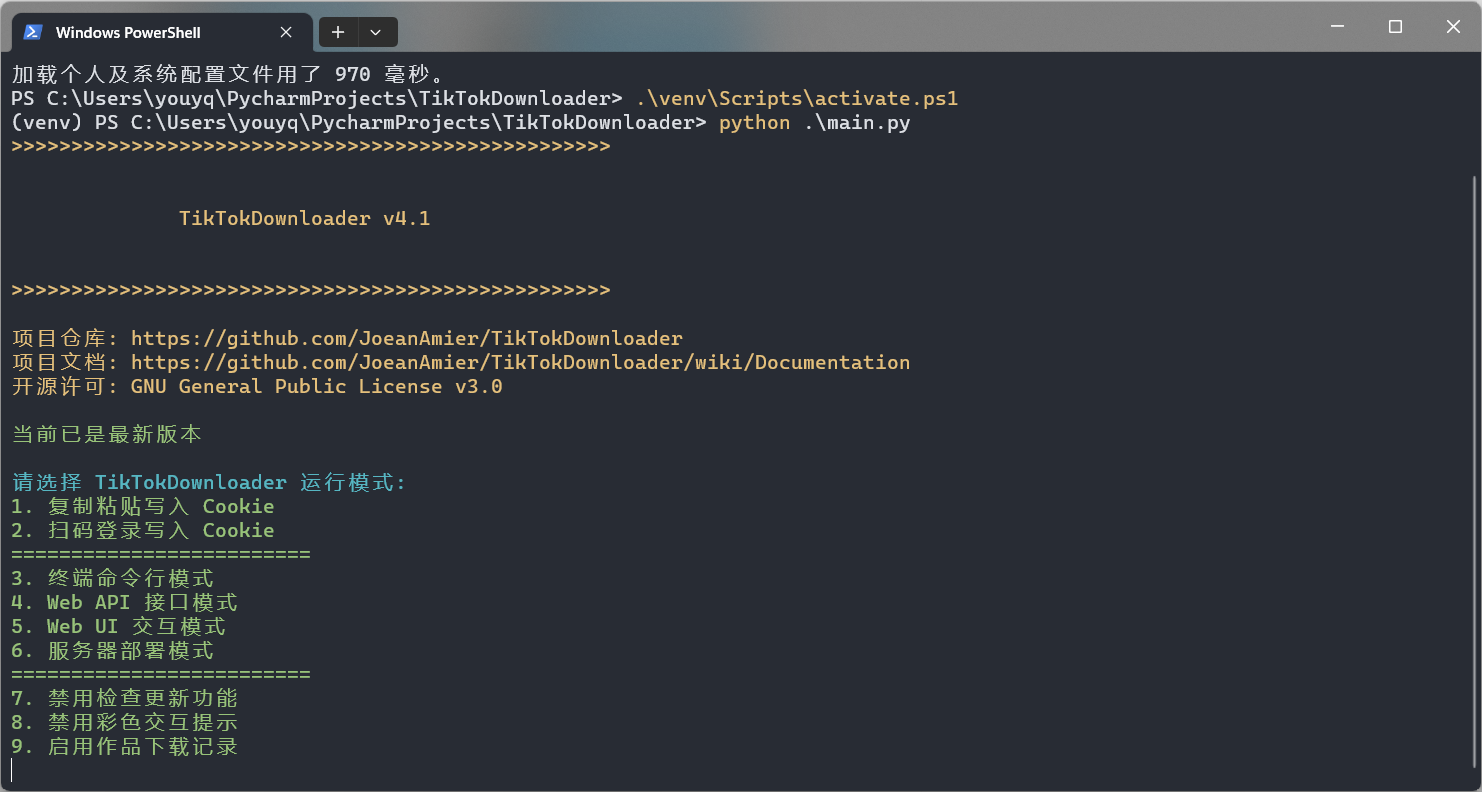
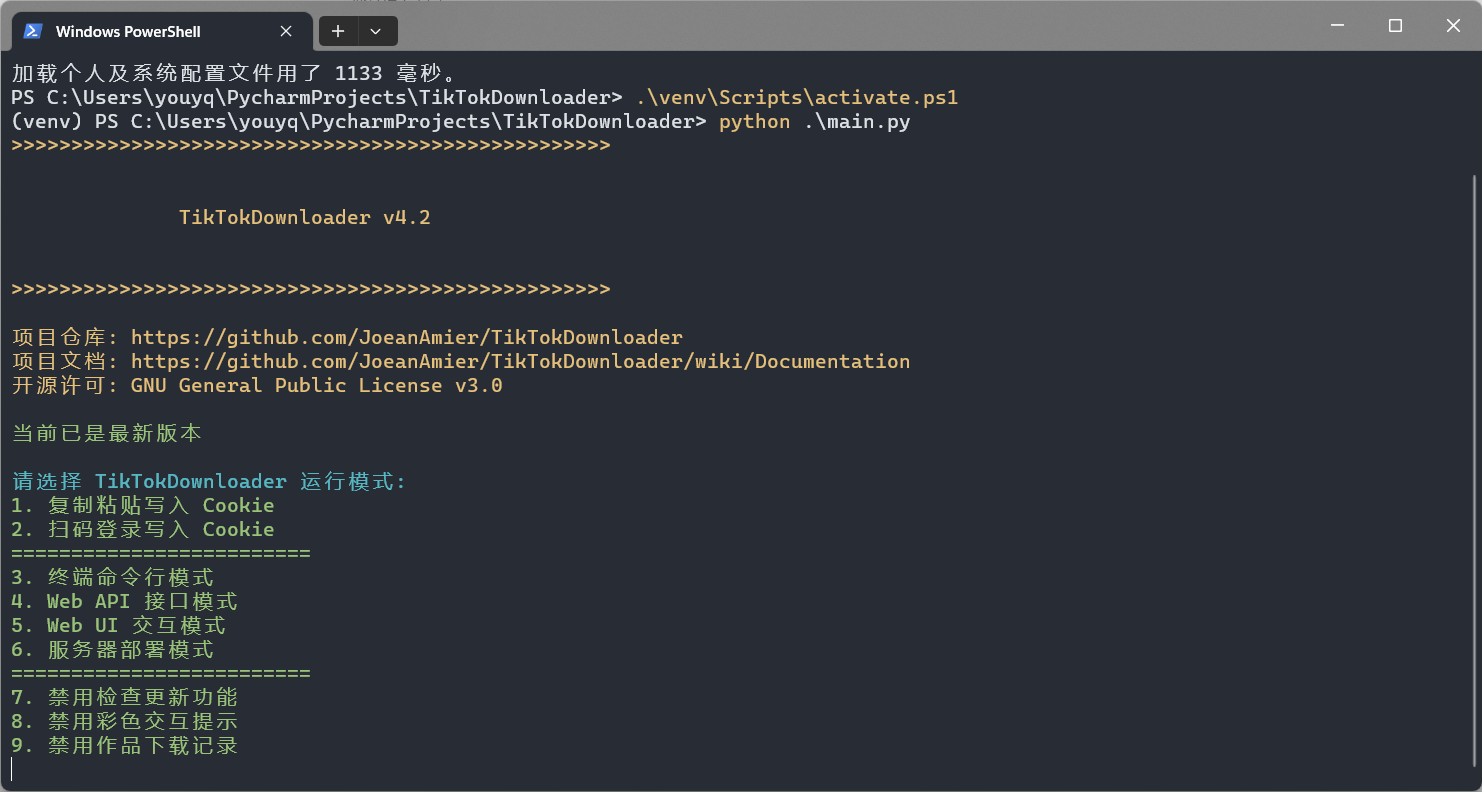
发布 4.2 版本

diff --git a/main.py b/main.py
@@ -23,7 +23,7 @@ from src.main_web_UI import WebUI
 
 class TikTokDownloader:
     VERSION = 4.2
-    STABLE = False
+    STABLE = True
 
     REPOSITORY = "https://github.com/JoeanAmier/TikTokDownloader"
     LICENCE = "GNU General Public License v3.0"

diff --git a/README.md b/README.md
@@ -15,10 +15,10 @@
 </div>
 <br>
 <p>🔥 <b>TikTok 视频/图集/原声；抖音主页/视频/图集/收藏/直播/原声/合集/评论/账号/搜索/热榜数据采集工具：</b>完全开源，基于 Requests 模块实现；批量下载抖音账号发布、喜欢、收藏的作品；单独下载抖音链接或 TikTok 链接对应的作品；获取抖音直播推流地址；下载抖音直播视频；采集抖音作品评论数据；批量下载抖音合集作品；采集抖音账号详细数据；采集抖音用户 / 作品搜索结果；采集抖音热榜数据。</p>
-<p>⭐ Windows 用户可前往 <a href="https://github.com/JoeanAmier/TikTokDownloader/releases/latest">Releases</a> 下载已编译的 exe 程序，开箱即用！</p>
+<p>⭐ Windows 10 及以上用户可前往 <a href="https://github.com/JoeanAmier/TikTokDownloader/releases/latest">Releases</a> 下载已编译的 exe 程序，开箱即用！</p>
 <hr>
 
-# 📝 功能清单
+# 📝 功能清单\(Function\)
 
 * ✅ 下载抖音无水印视频/图集
 * ✅ 下载 TikTok 无水印视频/图集
@@ -51,7 +51,7 @@
 * ✅ 支持多线程下载作品
 * ✅ 文件完整性处理机制
 
-# 💻 程序界面
+# 💻 程序界面\(Screenshot\)
 
 **终端命令行模式：**
 <br><br>
@@ -69,7 +69,7 @@
 <br><br>
 ![WebAPI模式截图](docs/WebAPI模式截图.png)
 
-# 📈 项目状态
+# 📈 项目状态\(Status\)
 
 * 🟢 [Releases](https://github.com/JoeanAmier/TikTokDownloader/releases/latest) 发布的源码已完成测试，所有功能均可正常使用
 * 🟢 正在重构项目代码，提高代码复用性和可维护性
@@ -87,11 +87,8 @@
 * 🔴 如果在使用过程中发现 Bug，请及时告知作者修复
 * 🔴 开启多线程时，作品未下载成功也会记录作品 ID，未修复，关闭多线程可临时解决问题
 * 🔴 账号昵称不是有效的文件夹名称时会导致程序报错，未修复，设置 `mark` 参数可临时解决问题
-* 🔴 Windows 系统使用 Excel 打开 CSV 数据文件会显示乱码，已修复，未发布 Releases
-* 🔴 `Web API 接口模式` 通过 API 设置 Cookie 会报错，已修复，未发布 Releases
-* 🔴 作品描述内容过多时会导致描述内容采集不完整，已修复，未发布 Releases
 
-# 📁 项目结构
+# 📁 项目结构\(Structure\)
 
 ```text
 TikTokDownloader
@@ -121,7 +118,7 @@ TikTokDownloader
 └─ docs                                    // 项目文档文件夹
 ```
 
-# 📋 项目说明
+# 📋 项目说明\(Instructions\)
 
 **快速入门：**
 
@@ -189,9 +186,10 @@ TikTokDownloader
 <li>程序下载文件时会先将文件下载至临时文件夹，下载完成后再移动至储存文件夹；程序运行结束时会清空临时文件夹</li>
 <li>如果想要自定义程序功能，可以直接修改 <code>src/Customizer.py</code> 文件内容，已整理程序功能修改指引</li>
 <li><code>批量下载收藏作品模式</code> 目前仅支持下载当前已登录 Cookie 对应账号的收藏作品，暂不支持多账号</li>
+<li>如果想要程序使用代理，必须在 <code>settings.json</code> 设置 <code>proxies</code> 参数，否则程序不会使用代理</li>
 </ul>
 
-# ⚠ 免责声明
+# ⚠ 免责声明\(Disclaimers\)
 
 <ul>
 <li>使用者对本项目的使用由使用者自行决定，并自行承担风险。作者对使用者使用本项目所产生的任何损失、责任、或风险概不负责。</li>
@@ -208,7 +206,7 @@ TikTokDownloader
 </ul>
 <b>在使用本项目的代码和功能之前，请您认真考虑并接受以上免责声明。如果您对上述声明有任何疑问或不同意，请不要使用本项目的代码和功能。如果您使用了本项目的代码和功能，则视为您已完全理解并接受上述免责声明，并自愿承担使用本项目的一切风险和后果。</b>
 
-# ♥ 赞助项目
+# ♥ 支持项目\(Support\)
 
 <table>
 <thead>
@@ -224,7 +222,7 @@ TikTokDownloader
 </tbody>
 </table>
 
-# ✉ 联系作者
+# ✉ 联系作者\(Contact\)
 
 <ul>
 <li>QQ Group: <a href="https://github.com/JoeanAmier/TikTokDownloader/blob/master/docs/QQ%E7%BE%A4%E8%81%8A%E4%BA%8C%E7%BB%B4%E7%A0%81.png">830227445</a></li>
@@ -237,7 +235,7 @@ TikTokDownloader
 <b>如果您通过 Email 联系我，我可能无法及时查看并回复信息，我会尽力在七天内回复您的邮件；如果有紧急事项或需要更快的回复，请通过其他方式与我联系，谢谢理解！</b>
 </p>
 
-# 💡 代码参考
+# 💡 代码参考\(Refer\)
 
 * https://github.com/Evil0ctal/Douyin_TikTok_Download_API
 * https://github.com/Johnserf-Seed/TikTokDownload

diff --git a/docs/TikTokDownloader文档.md b/docs/TikTokDownloader文档.md
@@ -778,6 +778,7 @@
 <p>如果存在新版本会提示新版本的 <code>URL</code> 地址，不会自动下载更新。</p>
 <h2>启用/禁用彩色交互提示</h2>
 <p>程序支持终端彩色交互提示；如果终端不支持控制符，程序会直接输出代码，此时建议禁用彩色交互提示。</p>
+<p>推荐使用 <a href="https://learn.microsoft.com/zh-cn/windows/terminal/install">Windows 终端</a> ！</p>
 <h2>启用/禁用作品下载记录</h2>
 <p>用于解决下载作品文件后移动作品文件导致重复下载的问题！</p>
 <ul>
